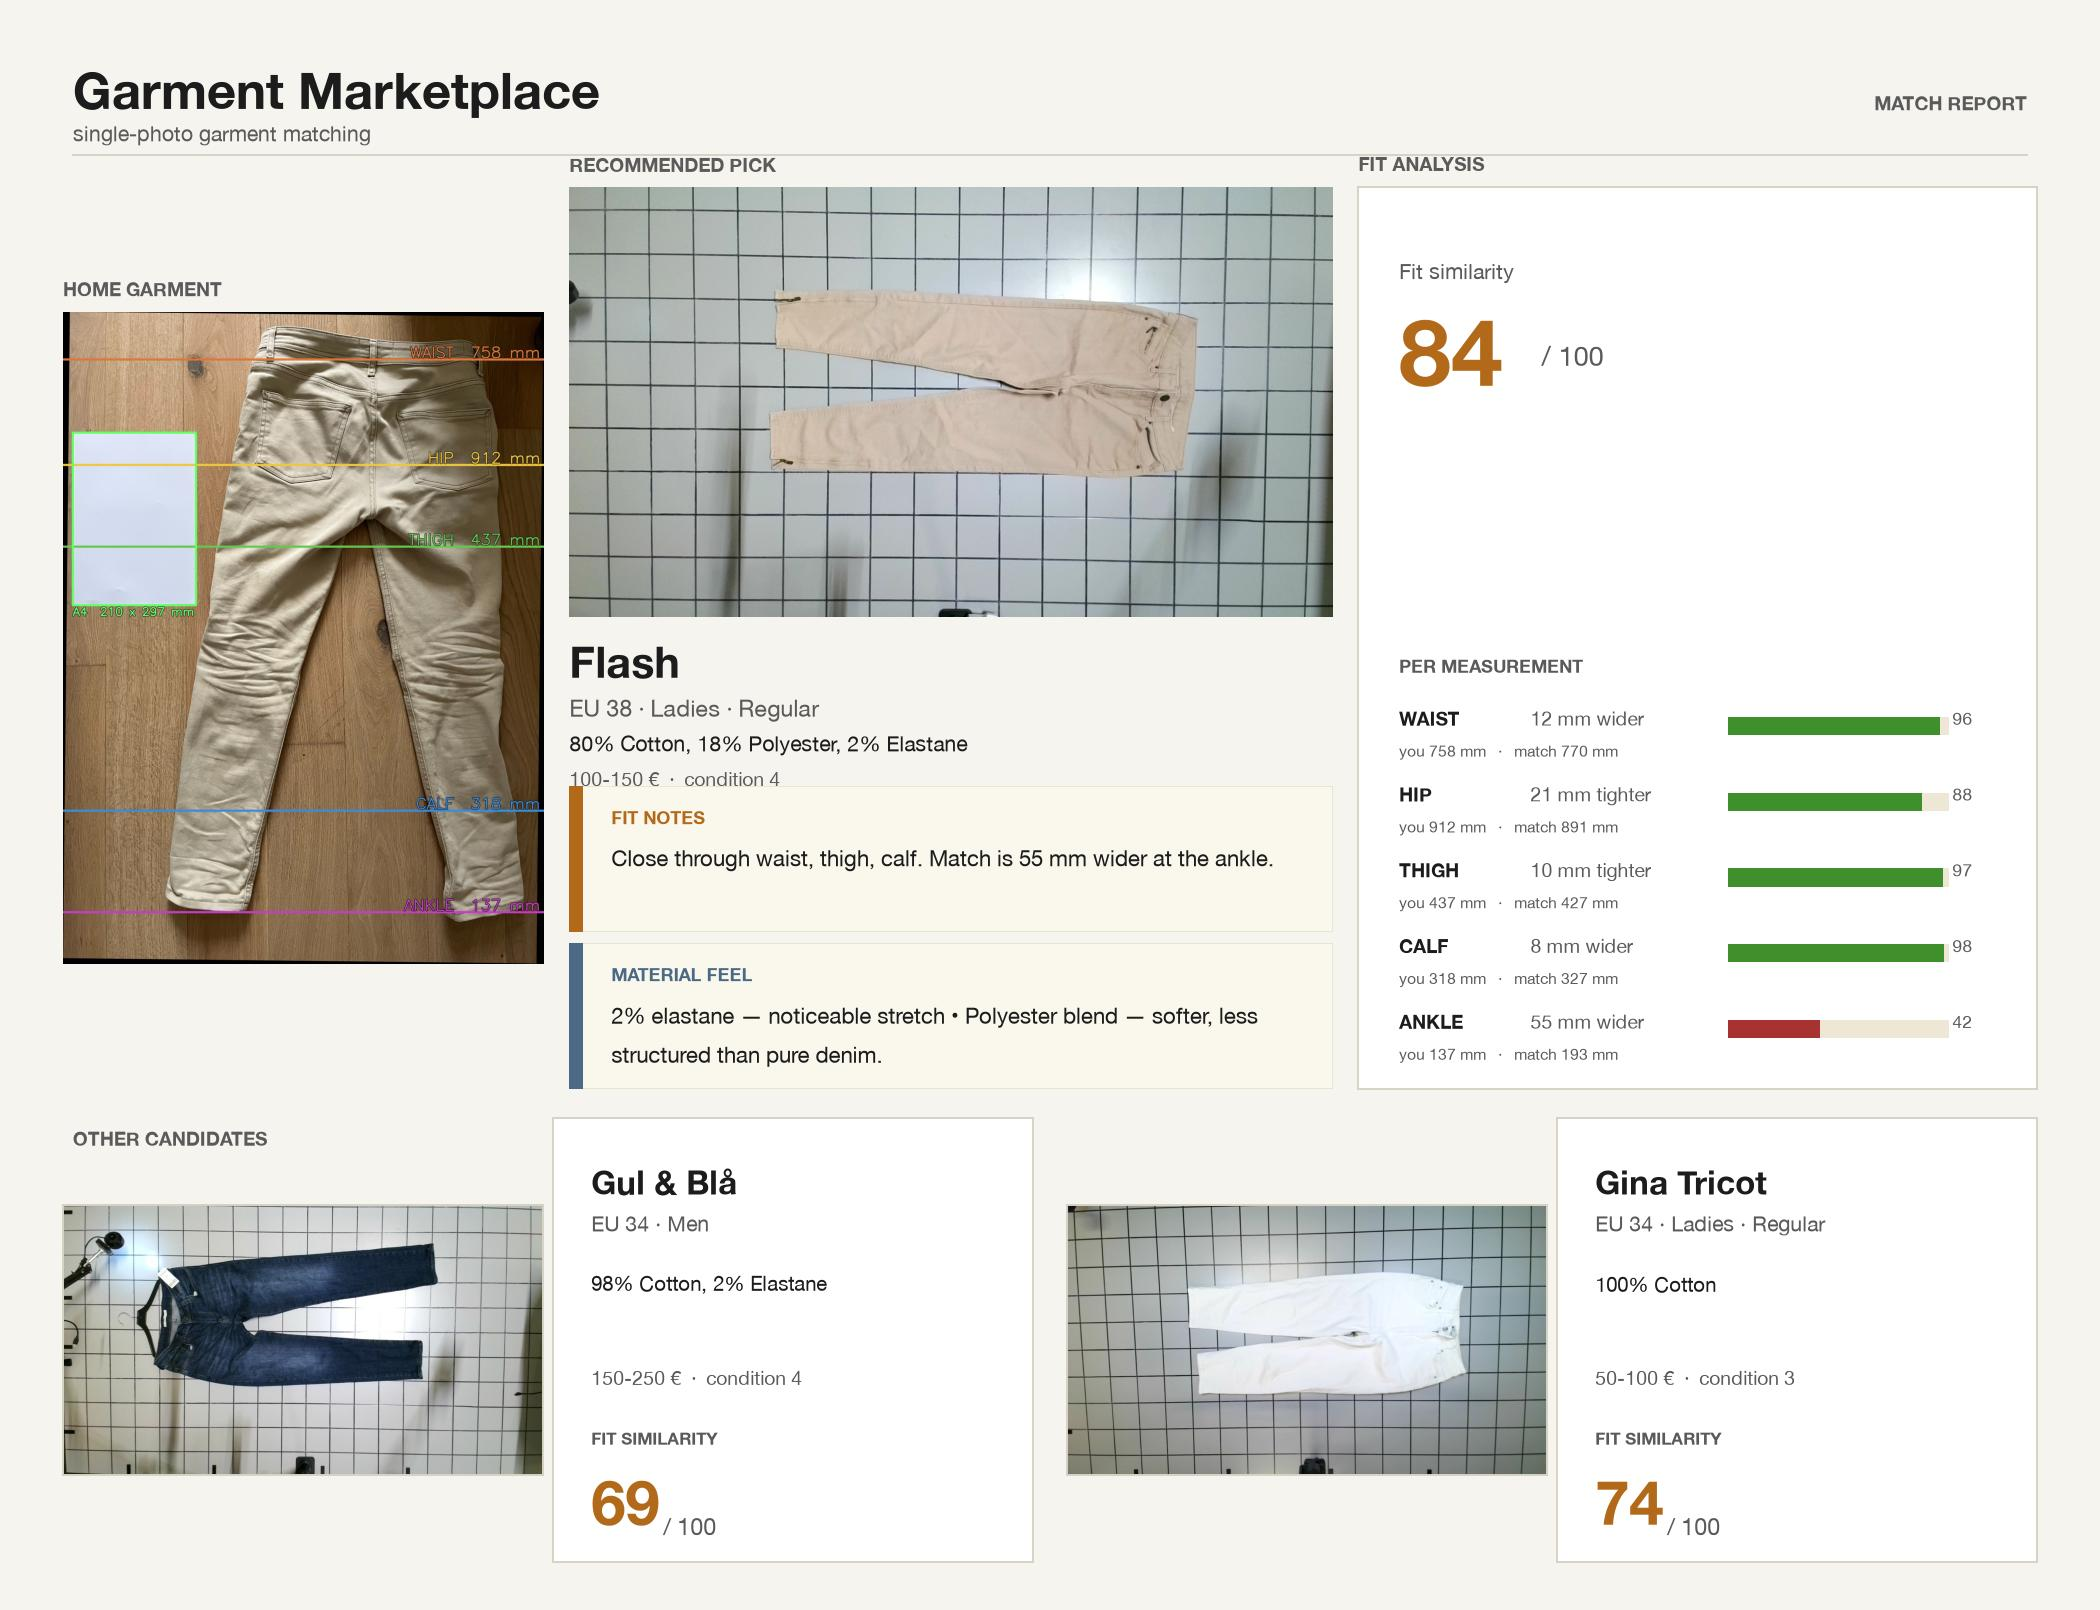
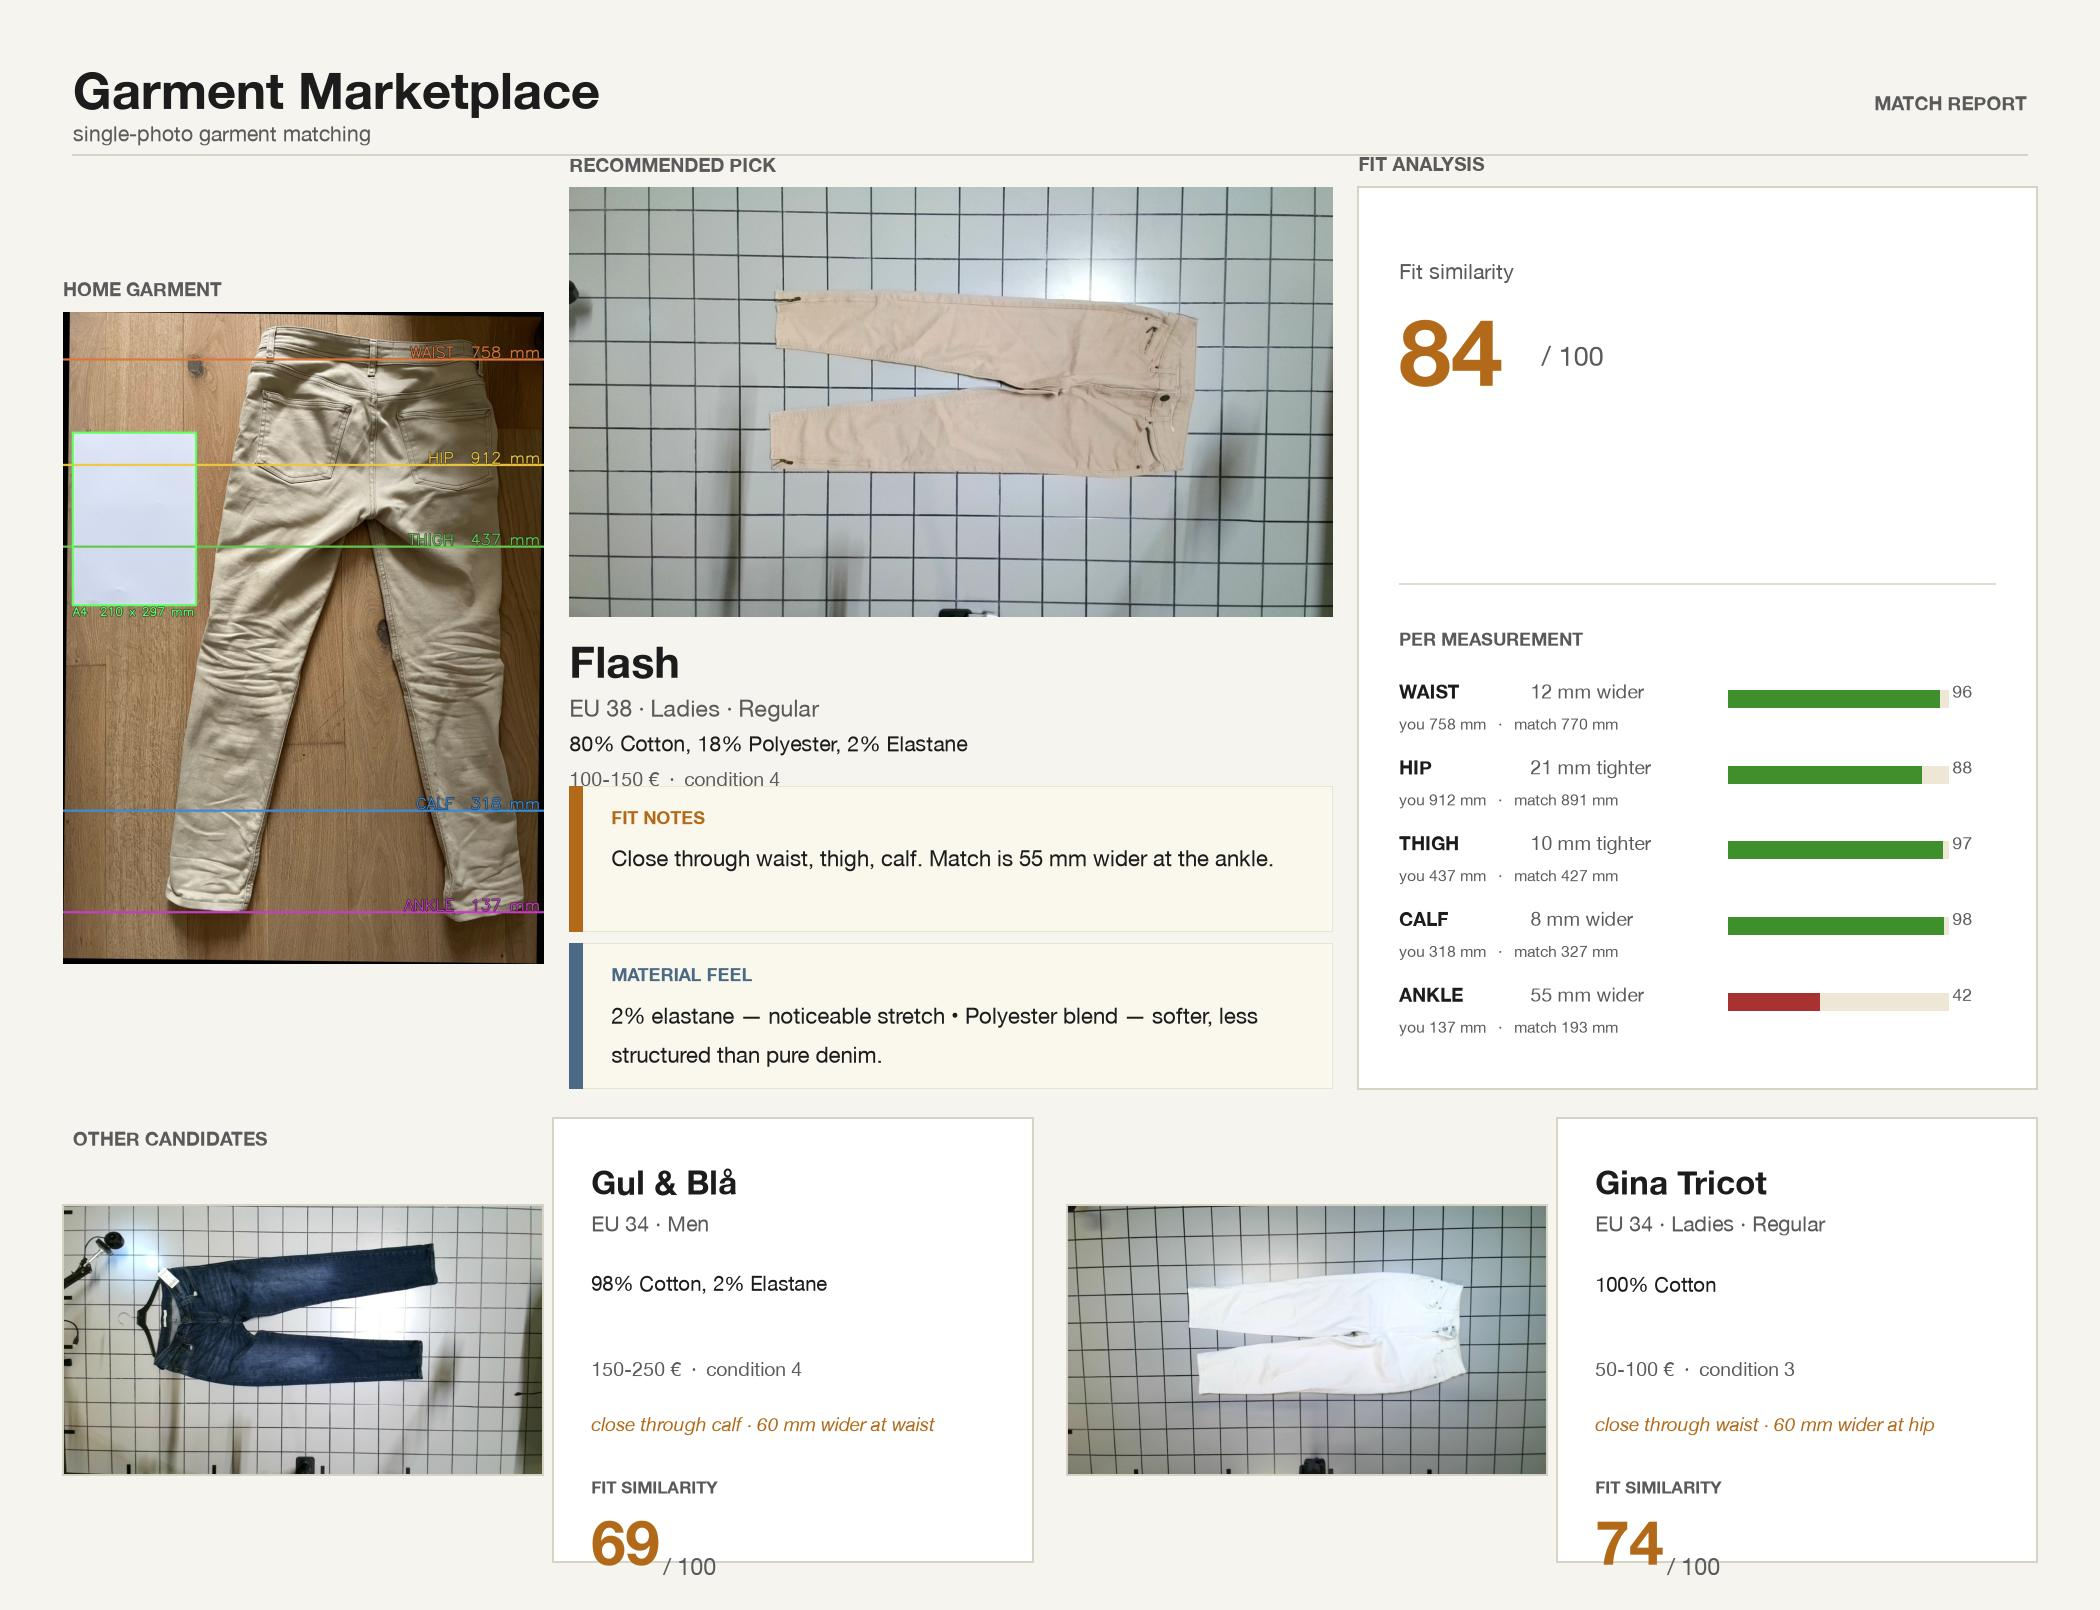
Fit analysis divider + 1-line fit notes on alternates
- Fit-analysis card: subtle horizontal divider between the headline
  fit-similarity score and the per-measurement breakdown; separates the
  summary from the details visually.
- Alternate cards: new one-line fit_interpretation_short() output
  ("close through waist · 60 mm wider at hip") placed between
  price/condition and the fit score. Italic, coloured with the fit-score
  palette so the note ties visually to the score below and users can
  decide between alternates without clicking through.

diff --git a/dataset_eval/marketplace_mock.py b/dataset_eval/marketplace_mock.py
@@ -93,6 +93,27 @@ def overall_fit_score(per_meas_scores):
     return float(np.mean(list(per_meas_scores.values())))
 
 
+def fit_interpretation_short(diffs):
+    """One-line compact summary for the alternate cards.
+
+    Names the two closest landmarks (if any) and the single biggest gap
+    (if any). Kept short enough to fit one row in a small card.
+    """
+    close = [k for k, v in diffs.items() if abs(v) <= 20]
+    off = sorted([(k, v) for k, v in diffs.items() if abs(v) > 30],
+                 key=lambda kv: -abs(kv[1]))
+    parts = []
+    if close:
+        parts.append("close through " + ", ".join(close[:2]))
+    if off:
+        k, v = off[0]
+        direction = "wider" if v < 0 else "tighter"
+        parts.append(f"{abs(v):.0f} mm {direction} at {k}")
+    if not parts:
+        return "very close overall"
+    return "  ·  ".join(parts)
+
+
 def fit_interpretation(diffs):
     """Short natural-language sentence describing the diff pattern."""
     named = {
@@ -462,13 +483,17 @@ def build_mockup(image_path, out_path, dataset_root, csv_path,
                 fontsize=14, color=INK_SOFT, transform=ax_fit.transAxes,
                 va="top")
 
+    # Divider between the headline score and the per-measurement rows.
+    ax_fit.plot([0.06, 0.94], [0.56, 0.56], color=BORDER, lw=0.8,
+                transform=ax_fit.transAxes, solid_capstyle="butt")
+
     # Per-measurement gauges (5 rows). With the note panels moved to the
     # recommended-pick column, the right column has more room — grow the
     # gauges and add a small subtitle so it doesn't feel empty.
-    ax_fit.text(0.06, 0.48, "PER MEASUREMENT",
+    ax_fit.text(0.06, 0.51, "PER MEASUREMENT",
                 fontsize=9, color=INK_SOFT, fontweight="bold",
                 transform=ax_fit.transAxes, va="top")
-    top_y = 0.44
+    top_y = 0.47
     row_h = 0.084
     for i, m in enumerate(MEASUREMENTS):
         render_measurement_gauge(
@@ -538,20 +563,30 @@ def build_mockup(image_path, out_path, dataset_root, csv_path,
                      wrap_text(material, 34),
                      fontsize=10.5, color=INK,
                      transform=ax_text.transAxes, va="top", linespacing=1.35)
-        ax_text.text(pad_x, 0.44,
+        ax_text.text(pad_x, 0.46,
                      f"{price} €  ·  condition {cond}",
                      fontsize=10, color=INK_SOFT,
                      transform=ax_text.transAxes, va="top")
 
+        # 1-line fit note so users can decide between alternates without
+        # clicking through. Coloured with the fit-score palette so it ties
+        # visually to the score below.
+        row_note = fit_interpretation_short(row_diffs)
+        ax_text.text(pad_x, 0.34,
+                     wrap_text(row_note, 46),
+                     fontsize=10, color=score_color(row_overall),
+                     transform=ax_text.transAxes, va="top",
+                     linespacing=1.35, fontstyle="italic")
+
         # Fit similarity number, prominent
-        ax_text.text(pad_x, 0.30, "FIT SIMILARITY", fontsize=8.5,
+        ax_text.text(pad_x, 0.19, "FIT SIMILARITY", fontsize=8.5,
                      color=INK_SOFT, transform=ax_text.transAxes,
                      fontweight="bold", va="top")
-        ax_text.text(pad_x, 0.22, f"{row_overall:.0f}", fontsize=32,
+        ax_text.text(pad_x, 0.13, f"{row_overall:.0f}", fontsize=32,
                      color=score_color(row_overall),
                      transform=ax_text.transAxes, fontweight="bold",
                      va="top")
-        ax_text.text(pad_x + 0.15, 0.11, "/ 100", fontsize=12,
+        ax_text.text(pad_x + 0.15, 0.02, "/ 100", fontsize=12,
                      color=INK_SOFT, transform=ax_text.transAxes,
                      va="top")
 